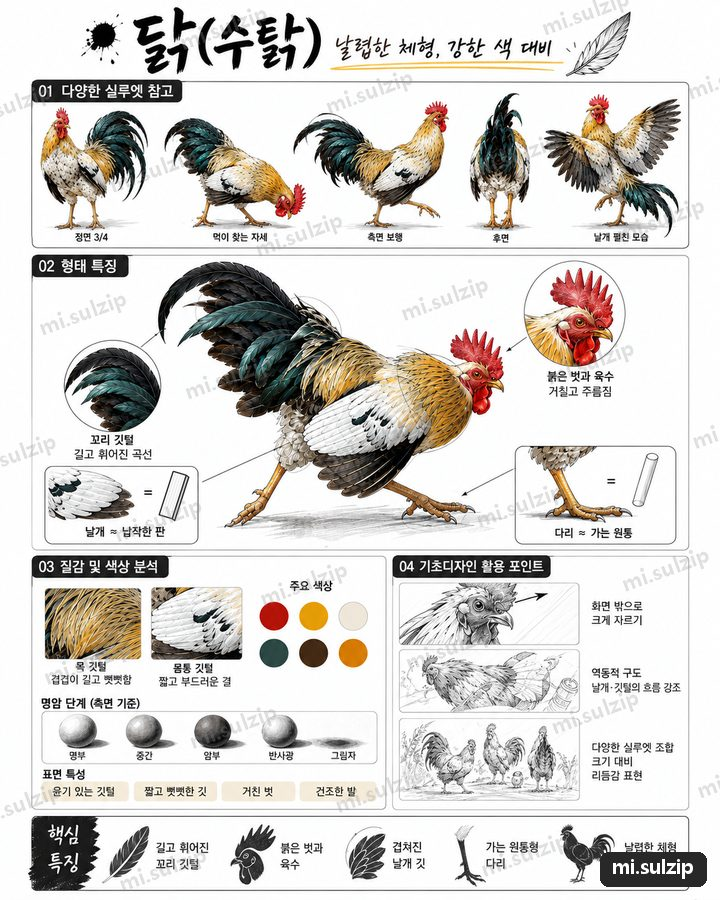
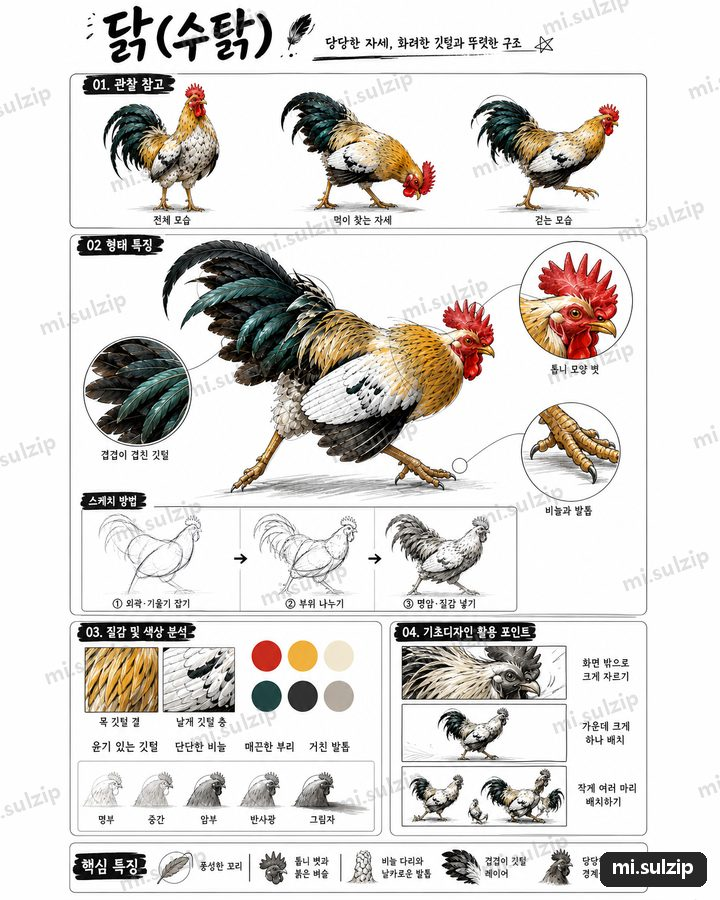
수탉: 새 형식 분석보드(확대샷·스케치 방법)로 교체

diff --git a/index.html b/index.html
@@ -360,7 +360,7 @@ const ITEMS=[
  {"id": "mistsprayer", "title": "미스트 분무기 레퍼런스", "cat": "생활용품", "tier": "MINI", "price": 4900, "badge": "new", "order": 145, "pop": 145, "img": "img/mistsprayer/board.jpg", "thumb": "img/mistsprayer/thumb.jpg", "cuts": 6, "pv": ["img/mistsprayer/cut01.jpg", "img/mistsprayer/cut02.jpg", "img/mistsprayer/cut03.jpg", "img/mistsprayer/cut04.jpg", "img/mistsprayer/cut05.jpg", "img/mistsprayer/cut06.jpg", "img/mistsprayer/set1.jpg"], "desc": "투명한 유리와 금속의 대비", "contents": ["분석보드: 관찰 참고 · 형태 분석과 구성 · 질감과 색상 · 기초디자인 활용 포인트", "각도별 단독컷 6장 + 모음컷: 정면 · 측면 · 후면 · 상단 · 디테일", "핵심 키워드: 주제부 · 확대 · 절단 · 반복 · 리듬 · 대비 · 흐름"], "who": ["사물의 구조와 질감을 각도별로 익히고 싶은 입시생", "기초디자인 주제부 소재를 찾는 분"], "tags": ["생활용품", "분무기", "유리", "금속", "청록", "곡선"]},
  {"id": "octopus", "title": "문어 레퍼런스", "cat": "동물", "tier": "MINI", "price": 4900, "badge": "new", "order": 146, "pop": 146, "img": "img/octopus/board.jpg", "thumb": "img/octopus/thumb.jpg", "cuts": 5, "pv": ["img/octopus/cut01.jpg", "img/octopus/cut02.jpg", "img/octopus/cut03.jpg", "img/octopus/cut04.jpg", "img/octopus/cut05.jpg", "img/octopus/set1.jpg"], "desc": "유연한 움직임, 감각과 촉감의 조화", "contents": ["분석보드: 관찰 참고 · 형태 분석과 구성 · 질감과 색상 · 기초디자인 활용 포인트", "각도별 단독컷 5장 + 모음컷: 정면 · 측면 · 후면 · 상단 · 디테일", "핵심 키워드: 주제부 · 확대 · 절단 · 반복 · 리듬 · 대비 · 흐름"], "who": ["동물 형태와 동세를 각도별로 보고 싶은 분", "질감 표현 연습이 필요한 입시생"], "tags": ["동물", "문어", "빨판", "다리", "곡선", "빨강"]},
  {"id": "candleholder", "title": "흐름 캔들홀더 레퍼런스", "cat": "재질·표현", "tier": "MINI", "price": 4900, "badge": "new", "order": 147, "pop": 147, "img": "img/candleholder/board.jpg", "thumb": "img/candleholder/thumb.jpg", "cuts": 6, "pv": ["img/candleholder/cut01.jpg", "img/candleholder/cut02.jpg", "img/candleholder/cut03.jpg", "img/candleholder/cut04.jpg", "img/candleholder/cut05.jpg", "img/candleholder/cut06.jpg", "img/candleholder/set1.jpg"], "desc": "흘러내리는 금속의 흐름과 반사", "contents": ["분석보드: 관찰 참고 · 형태 분석과 구성 · 질감과 색상 · 기초디자인 활용 포인트", "각도별 단독컷 6장 + 모음컷: 정면 · 측면 · 후면 · 상단 · 디테일", "핵심 키워드: 주제부 · 확대 · 절단 · 반복 · 리듬 · 대비 · 흐름"], "who": ["금속·유리·투명 같은 재질 표현을 연습하고 싶은 입시생", "반사와 하이라이트 위치를 익히고 싶은 분"], "tags": ["재질·표현", "캔들", "크롬", "금속", "흐름", "녹아내림"]},
- {"id": "rooster", "title": "닭(수탉) 레퍼런스", "cat": "동물", "tier": "MINI", "price": 4900, "badge": "new", "order": 153, "pop": 153, "img": "img/rooster/board.jpg", "thumb": "img/rooster/thumb.jpg", "pv": ["img/rooster/board.jpg"], "desc": "날렵한 체형, 강한 색 대비", "contents": ["분석보드: 다양한 실루엣 참고 · 형태 특징(확대샷·도형 비유) · 질감과 색상 · 기초디자인 활용 포인트", "실루엣 5종: 정면 3/4 · 먹이 찾는 자세 · 측면 보행 · 후면 · 날개 펼친 모습", "핵심 특징: 길고 휘어진 꼬리 깃털 · 붉은 볏과 육수 · 겹쳐진 날개 깃 · 가는 원통형 다리 · 날렵한 체형"], "who": ["동물 형태와 동세를 다양한 자세로 보고 싶은 분", "깃털 질감과 강한 색 대비를 연습하고 싶은 입시생"], "tags": ["동물", "닭", "수탉", "깃털", "볏", "동세"]},
+ {"id": "rooster", "title": "닭(수탉) 레퍼런스", "cat": "동물", "tier": "MINI", "price": 4900, "badge": "new", "order": 153, "pop": 153, "img": "img/rooster/board.jpg", "thumb": "img/rooster/thumb.jpg", "pv": ["img/rooster/board.jpg"], "desc": "당당한 자세, 화려한 깃털과 뚜렷한 구조", "contents": ["분석보드: 관찰 참고 · 형태 특징(확대샷) · 스케치 방법 3단계 · 질감과 색상 · 기초디자인 활용 포인트", "관찰 자세 3종: 전체 모습 · 먹이 찾는 자세 · 걷는 모습", "핵심 특징: 풍성한 꼬리 · 톱니 볏과 붉은 벼슬 · 비늘 다리와 날카로운 발톱 · 겹겹이 깃털 레이어 · 당당한 자세"], "who": ["동물 형태와 동세를 다양한 자세로 보고 싶은 분", "깃털 질감과 강한 색 대비를 연습하고 싶은 입시생"], "tags": ["동물", "닭", "수탉", "깃털", "볏", "동세"]},
  {"id": "ram", "title": "산양 레퍼런스", "cat": "동물", "tier": "MINI", "price": 4900, "badge": "new", "order": 149, "pop": 149, "img": "img/ram/board.jpg", "thumb": "img/ram/thumb.jpg", "cuts": 6, "pv": ["img/ram/board.jpg", "img/ram/cut01.jpg", "img/ram/cut02.jpg", "img/ram/cut03.jpg", "img/ram/cut04.jpg", "img/ram/cut05.jpg", "img/ram/cut06.jpg", "img/ram/set1.jpg"], "desc": "말린 뿔의 나선, 털의 무게감", "contents": ["분석보드: 관찰 참고 · 형태 특징(확대샷·도형 비유) · 질감과 색상 · 기초디자인 활용 포인트", "각도별 단독컷 6장 + 모음컷: 메인 · 정면 · 측면 · 후면 · 상단 · 디테일", "핵심 특징: 크고 말린 뿔 · 도톰한 코 · 원통 몸통 · 빽빽한 털 · 두 갈래 발굽"], "who": ["동물 형태와 동세를 각도별로 보고 싶은 분", "털·뿔 질감 표현을 연습하고 싶은 입시생"], "tags": ["동물", "산양", "뿔", "나선", "털", "질감"]},
  {"id": "eagle", "title": "독수리 레퍼런스", "cat": "동물", "tier": "MINI", "price": 4900, "badge": "new", "order": 150, "pop": 150, "img": "img/eagle/board.jpg", "thumb": "img/eagle/thumb.jpg", "cuts": 6, "pv": ["img/eagle/board.jpg", "img/eagle/cut01.jpg", "img/eagle/cut02.jpg", "img/eagle/cut03.jpg", "img/eagle/cut04.jpg", "img/eagle/cut05.jpg", "img/eagle/cut06.jpg", "img/eagle/set1.jpg"], "desc": "펼친 날개의 리듬, 깃털과 발톱의 긴장감", "contents": ["분석보드: 관찰 참고 · 형태 특징(확대샷·도형 비유) · 질감과 색상 · 기초디자인 활용 포인트", "각도별 단독컷 6장 + 모음컷: 메인 · 정면 · 측면 · 후면 · 상단 · 디테일", "핵심 특징: 층층 깃털 · 강한 눈빛 · 굽은 발톱 · 넓은 날개 · 흰 꼬리 깃털"], "who": ["동물 형태와 동세를 각도별로 보고 싶은 분", "날개·깃털의 반복 리듬을 연습하고 싶은 분"], "tags": ["동물", "독수리", "새", "날개", "깃털", "동세"]},
  {"id": "pig", "title": "돼지 레퍼런스", "cat": "동물", "tier": "MINI", "price": 4900, "badge": "new", "order": 151, "pop": 151, "img": "img/pig/board.jpg", "thumb": "img/pig/thumb.jpg", "cuts": 6, "pv": ["img/pig/board.jpg", "img/pig/cut01.jpg", "img/pig/cut02.jpg", "img/pig/cut03.jpg", "img/pig/cut04.jpg", "img/pig/cut05.jpg", "img/pig/cut06.jpg", "img/pig/set1.jpg"], "desc": "통통한 볼륨감, 살아 있는 동세", "contents": ["분석보드: 관찰 참고 · 형태 특징(확대샷·도형 비유) · 질감과 색상 · 기초디자인 활용 포인트", "각도별 단독컷 6장 + 모음컷: 메인 · 정면 · 측면 · 후면 · 상단 · 디테일", "핵심 특징: 원통 몸통 · 삼각 귀 · 원통 코 · 짧은 다리 · 나선 꼬리"], "who": ["동물 형태와 동세를 각도별로 보고 싶은 분", "둥근 볼륨과 명암 연습이 필요한 입시생"], "tags": ["동물", "돼지", "볼륨", "분홍", "동세", "캐릭터"]},
@@ -404,8 +404,8 @@ const FREEBIES=[
  {id:"balloondog",item:"balloondog",pack:"chrome",drive:"14JncHhUpVqjZ8N7NnbaaqcSET3yfT9XB",file:"free/misulzip_metal-balloon-dog.jpg",title:"메탈 풍선 강아지 · 각도별 모음컷",
   desc:"정면 · 측면 · 3/4 · 상단 · 후면 · 디테일을 한 장에 모은 원본이에요. 워터마크 없는 고해상도 파일입니다.",
   tips:["크롬은 '주변이 비친 그림'이에요. 하이라이트보다 반사된 어두운 띠를 먼저 잡아보세요.","풍선 이음매(마디)마다 하이라이트가 끊겨요. 덩어리를 구 여러 개로 나눠서 보세요.","바닥에 비친 파란 반사광까지 그리면 금속감이 확 살아나요."]},
- {id:"rooster",item:"rooster",pack:"sea",drive:"1NCyQ_tBWd7RQMaaQTCGoQsW6R8kbf6SI",file:"free/misulzip_rooster-board.jpg",title:"닭(수탉) · 분석보드",
-  desc:"실루엣 5종 · 형태 특징 · 질감과 색상 · 활용 포인트를 한 장에 정리한 원본이에요. 워터마크 없는 파일입니다.",
+ {id:"rooster",item:"rooster",pack:"sea",drive:"1HL0QjHpazDt49aPobqQ7Q-eHoV_EmVfh",file:"free/misulzip_rooster-board.jpg",title:"닭(수탉) · 분석보드",
+  desc:"관찰 참고 · 형태 특징(확대샷) · 스케치 방법 3단계 · 질감과 색상 · 활용 포인트를 한 장에 정리한 원본이에요. 워터마크 없는 파일입니다.",
   tips:["꼬리 깃털은 한 장씩 그리지 말고 큰 곡선 덩어리부터 잡은 뒤 겹침을 나눠보세요.","날개는 납작한 판, 다리는 가는 원통으로 먼저 단순화하면 비례가 쉽게 잡혀요.","붉은 볏과 짙은 청록 꼬리의 색 대비를 살리면 화면이 확 살아나요."]},
  {id:"pig",item:"pig",pack:"sea",drive:"1kv1LaYt76bU_ZBHfpzOsr3B1XfVCW_KR",file:"free/misulzip_pig-board.jpg",title:"돼지 · 분석보드",
   desc:"관찰 참고 · 형태 특징(확대샷) · 스케치 방법 3단계 · 질감과 색상 · 활용 포인트를 한 장에 정리한 원본이에요. 워터마크 없는 파일입니다.",
